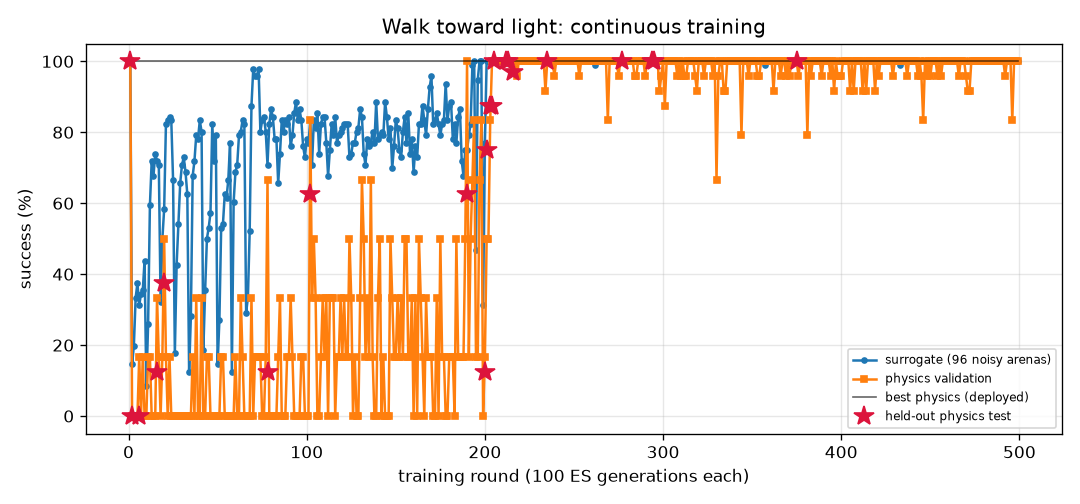
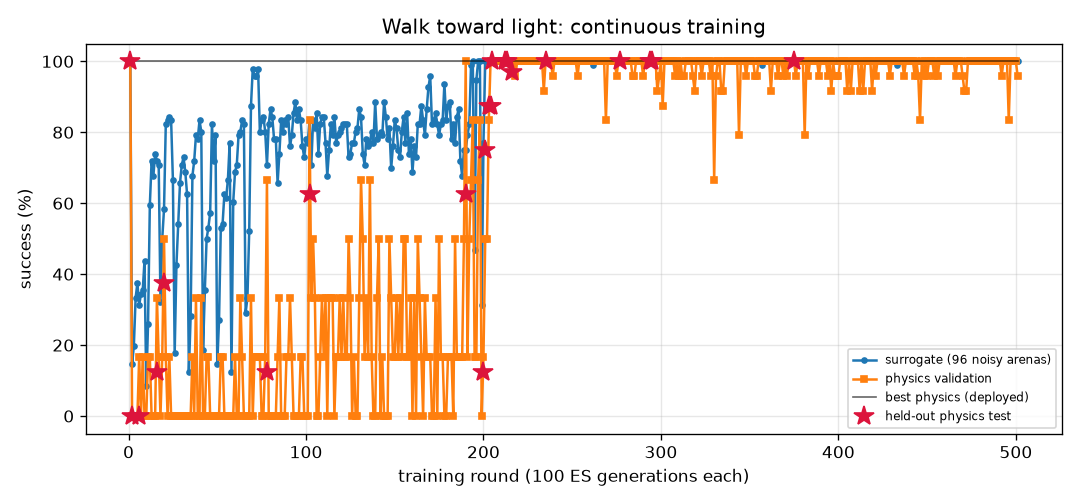
FlyLab: continuous training progress
- walk_forward: optimal, physics val 100% of 24, round 388
- turn: optimal, physics val 100% of 24, round 1054
- goto: optimal, physics val 100% of 24, round 297
- odor_seek: optimal, physics val 100% of 24, round 240
- odor_avoid: optimal, physics val 100% of 24, round 928
- light_seek: optimal, physics val 100% of 24, round 501
- light_avoid: optimal, physics val 100% of 24, round 652

diff --git a/projects/09_flylab/training/walk_forward/REPORT.md b/projects/09_flylab/training/walk_forward/REPORT.md
@@ -1,14 +1,14 @@
 # Walk forward (`walk_forward`) — training report
 
-*Auto-generated by `train_brains.py`, last updated 2026-11-15T13:48:36.*
+*Auto-generated by `train_brains.py`, last updated 2026-11-15T14:35:04.*
 
 ![curve](curve.png)
 
 | | |
 |---|---|
-| rounds | 385 |
-| ES generations | 38500 |
-| physics runs | 9254 |
+| rounds | 388 |
+| ES generations | 38800 |
+| physics runs | 9326 |
 | status | **optimal** |
 | best brain | round 116: physics validation **100%** on 24 arenas, surrogate 100% |
 | held-out physics test | **100%** on 32 unseen arenas (95% CI 89%-100%) (errors: [0.13, 0.16, 0.19, 0.16, 0.15, 0.2, 0.17, 0.18, 0.17, 0.19, 0.2, 0.14, 0.17, 0.19, 0.2, 0.2, 0.13, 0.19, 0.16, 0.2, 0.2, 0.16, 0.17, 0.2, 0.13, 0.15, 0.18, 0.14, 0.16, 0.15, 0.19, 0.12]) |
@@ -17,9 +17,6 @@ Physics error per arena: mm from target at the end (< 1.5 and standing still = s
 
 | round | level | gens | sigma | surrogate | physics val | val errors | test | note |
 |---:|---:|---:|---:|---:|---:|---|---:|---|
-| 346 | 3 | 34600 | 0.025 | 100% | 100% | [0.03, 0.17, 0.08, 0.1, 0.22, 0.06, 0.22, 0.05, 0.21, 0.25, 0.16, 0.27, 0.07, 0.1, 0.14, 0.27, 0.1, 0.16, 0.06, 0.17, 0.08, 0.27, 0.25, 0.21] |  |  |
-| 347 | 3 | 34700 | 0.024 | 100% | 100% | [0.43, 0.41, 0.32, 0.42, 0.42, 0.31, 0.4, 0.36, 0.41, 0.36, 0.3, 0.34, 0.36, 0.31, 0.42, 0.35, 0.41, 0.42, 0.36, 0.43, 0.39, 0.36, 0.33, 0.36] |  |  |
-| 348 | 3 | 34800 | 0.024 | 100% | 100% | [0.23, 0.3, 0.21, 0.23, 0.3, 0.21, 0.3, 0.2, 0.3, 0.3, 0.23, 0.27, 0.19, 0.21, 0.25, 0.28, 0.21, 0.3, 0.19, 0.27, 0.19, 0.29, 0.26, 0.19] |  | restart from best |
 | 349 | 3 | 34900 | 0.024 | 100% | 92% | [0.18, 0.12, 0.08, 0.18, 0.14, 0.06, 0.12, 0.16, 0.12, 0.15, 0.06, 0.17, 0.03, 0.06, 0.05, 0.09, 0.19, 0.08, 0.19, 0.05, 0.16, 0.15, 0.13, 0.06] |  |  |
 | 350 | 3 | 35000 | 0.024 | 100% | 96% | [0.1, 0.17, 0.36, 0.1, 0.17, 0.38, 0.18, 0.04, 0.17, 0.19, 0.05, 0.19, 0.06, 0.53, 0.12, 0.2, 0.03, 0.15, 0.06, 0.13, 0.29, 0.19, 0.19, 0.05] |  |  |
 | 351 | 3 | 35100 | 0.024 | 100% | 96% | [0.07, 0.24, 0.24, 0.06, 0.24, 0.05, 0.25, 0.04, 0.24, 0.27, 0.14, 0.27, 0.1, 0.13, 0.05, 0.26, 0.1, 0.23, 0.08, 0.11, 0.09, 0.27, 0.17, 0.1] |  |  |
@@ -57,3 +54,6 @@ Physics error per arena: mm from target at the end (< 1.5 and standing still = s
 | 383 | 3 | 38300 | 0.024 | 100% | 100% | [0.23, 0.23, 0.2, 0.23, 0.22, 0.19, 0.23, 0.21, 0.22, 0.21, 0.18, 0.2, 0.21, 0.2, 0.22, 0.21, 0.22, 0.23, 0.22, 0.23, 0.22, 0.21, 0.2, 0.21] |  |  |
 | 384 | 3 | 38400 | 0.024 | 100% | 100% | [0.21, 0.06, 0.17, 0.22, 0.05, 0.02, 0.15, 0.2, 0.08, 0.16, 0.33, 0.16, 0.2, 0.02, 0.09, 0.18, 0.22, 0.07, 0.2, 0.1, 0.21, 0.16, 0.15, 0.2] |  | restart from best |
 | 385 | 3 | 38500 | 0.024 | 100% | 100% | [0.23, 0.33, 0.19, 0.23, 0.33, 0.2, 0.33, 0.18, 0.33, 0.33, 0.21, 0.31, 0.18, 0.2, 0.25, 0.32, 0.21, 0.3, 0.18, 0.27, 0.18, 0.33, 0.31, 0.18] |  |  |
+| 386 | 3 | 38600 | 0.024 | 100% | 100% | [0.11, 0.2, 0.12, 0.11, 0.2, 0.14, 0.21, 0.12, 0.2, 0.25, 0.15, 0.25, 0.12, 0.14, 0.12, 0.25, 0.11, 0.17, 0.12, 0.14, 0.11, 0.26, 0.25, 0.11] |  |  |
+| 387 | 3 | 38700 | 0.024 | 100% | 92% | [0.07, 0.1, 0.05, 0.06, 0.09, 0.06, 0.5, 0.05, 0.09, 0.06, 0.05, 0.08, 0.05, 0.06, 0.06, 0.06, 3.55, 0.07, 0.06, 0.07, 0.06, 0.07, 0.07, 0.05] |  |  |
+| 388 | 3 | 38800 | 0.024 | 100% | 96% | [0.21, 0.19, 0.16, 0.06, 0.18, 0.18, 0.21, 0.16, 0.2, 0.26, 0.17, 0.25, 0.16, 0.17, 0.1, 0.26, 0.02, 0.14, 0.15, 0.1, 0.14, 0.27, 0.25, 0.17] |  | restart from best |

diff --git a/projects/09_flylab/training/light_seek/REPORT.md b/projects/09_flylab/training/light_seek/REPORT.md
@@ -1,14 +1,14 @@
 # Walk toward light (`light_seek`) — training report
 
-*Auto-generated by `train_brains.py`, last updated 2026-11-15T13:50:26.*
+*Auto-generated by `train_brains.py`, last updated 2026-11-15T14:34:08.*
 
 ![curve](curve.png)
 
 | | |
 |---|---|
-| rounds | 499 |
-| ES generations | 49900 |
-| physics runs | 8856 |
+| rounds | 501 |
+| ES generations | 50100 |
+| physics runs | 8904 |
 | status | **optimal** |
 | best brain | round 375: physics validation **100%** on 24 arenas, surrogate 100% |
 | held-out physics test | **100%** on 32 unseen arenas (95% CI 89%-100%) (errors: [0.57, 0.54, 0.53, 0.57, 0.55, 0.56, 0.59, 0.56, 0.53, 0.56, 0.71, 0.56, 0.55, 0.54, 0.53, 0.54, 0.54, 0.55, 0.52, 0.65, 0.64, 0.7, 0.58, 0.57, 0.6, 0.62, 0.55, 0.88, 0.54, 0.52, 0.62, 0.57]) |
@@ -17,8 +17,6 @@ Physics error per arena: mm from target at the end (< 1.5 and standing still = s
 
 | round | level | gens | sigma | surrogate | physics val | val errors | test | note |
 |---:|---:|---:|---:|---:|---:|---|---:|---|
-| 460 | 3 | 46000 | 0.024 | 100% | 100% | [0.47, 0.46, 0.51, 0.5, 0.47, 0.57, 0.53, 0.51, 0.49, 0.51, 0.48, 0.55, 0.58, 0.51, 0.49, 0.55, 0.47, 0.51, 0.52, 0.59, 0.49, 0.47, 0.48, 0.48] |  |  |
-| 461 | 3 | 46100 | 0.024 | 100% | 100% | [0.57, 0.57, 0.56, 0.56, 0.65, 0.65, 0.56, 0.61, 0.6, 0.58, 0.6, 0.59, 0.56, 0.6, 0.57, 0.56, 0.57, 0.56, 0.58, 0.58, 0.57, 0.65, 0.57, 0.61] |  |  |
 | 462 | 3 | 46200 | 0.024 | 100% | 100% | [0.51, 0.53, 0.52, 0.53, 0.5, 0.52, 0.51, 0.52, 1.11, 0.5, 0.51, 0.52, 0.51, 0.51, 0.53, 0.51, 0.51, 0.5, 0.52, 0.53, 0.52, 0.51, 0.51, 0.54] |  |  |
 | 463 | 3 | 46300 | 0.024 | 100% | 100% | [0.53, 0.61, 0.54, 0.57, 0.59, 0.55, 0.49, 0.49, 0.57, 0.49, 0.6, 0.54, 0.94, 0.53, 0.95, 0.81, 0.52, 0.51, 0.57, 0.54, 0.5, 1.03, 0.56, 0.6] |  | restart from best |
 | 464 | 3 | 46400 | 0.024 | 100% | 100% | [0.68, 0.56, 0.64, 0.57, 0.58, 0.54, 0.66, 0.62, 0.71, 0.58, 0.59, 0.59, 0.62, 0.99, 0.71, 0.58, 0.72, 0.58, 0.55, 0.71, 0.62, 0.68, 0.57, 0.58] |  |  |
@@ -57,3 +55,5 @@ Physics error per arena: mm from target at the end (< 1.5 and standing still = s
 | 497 | 3 | 49700 | 0.024 | 100% | 100% | [0.59, 0.61, 0.64, 0.71, 0.57, 0.6, 0.61, 0.7, 0.84, 0.64, 0.57, 0.6, 0.68, 0.61, 0.78, 0.65, 0.59, 0.72, 0.67, 0.58, 0.64, 0.6, 0.59, 0.63] |  |  |
 | 498 | 3 | 49800 | 0.024 | 100% | 100% | [0.57, 0.55, 0.57, 1.36, 0.57, 0.57, 0.63, 0.54, 0.57, 0.67, 0.55, 0.58, 0.57, 0.57, 0.56, 0.56, 0.57, 0.58, 0.56, 0.66, 0.57, 0.56, 0.62, 0.72] |  |  |
 | 499 | 3 | 49900 | 0.024 | 100% | 100% | [0.57, 0.55, 0.54, 0.57, 0.54, 0.73, 0.58, 0.68, 0.55, 0.51, 1.03, 0.62, 0.65, 0.63, 0.53, 0.72, 0.6, 0.69, 0.67, 0.76, 0.57, 0.69, 0.99, 0.54] |  | restart from best |
+| 500 | 3 | 50000 | 0.024 | 100% | 100% | [0.89, 0.56, 0.55, 0.72, 0.51, 0.54, 0.55, 0.55, 0.68, 1.08, 0.58, 0.58, 0.5, 0.59, 0.85, 0.52, 0.54, 0.58, 0.59, 0.59, 0.64, 1.15, 0.59, 0.65] |  |  |
+| 501 | 3 | 50100 | 0.024 | 100% | 96% | [0.49, 0.45, 0.47, 0.46, 0.42, 0.45, 0.48, 0.43, 0.43, 0.51, 0.53, 0.44, 0.43, 0.59, 0.51, 0.45, 0.46, 0.51, 0.45, 0.44, 1.01, 0.44, 0.48, 1.11] |  |  |

diff --git a/projects/09_flylab/training/TRAINING.md b/projects/09_flylab/training/TRAINING.md
@@ -1,15 +1,15 @@
 # FlyLab brains — continuous training log
 
-*Auto-generated by `train_brains.py`, last updated 2026-11-15T13:50:26.*
+*Auto-generated by `train_brains.py`, last updated 2026-11-15T14:35:04.*
 
 Every skill has its own brain and its own training process: surrogate ES rounds, physics validation in MuJoCo, keep-the-best selection, and a held-out physics test that is never used for selection. See each skill's report for its full round-by-round history. Mastery is progressive: passing a level (100% physics validation, >=95% surrogate) doubles the validation and test arena sets; a brain is **optimal** once it holds up at level 3 (>=95% of 24 validation arenas) AND scores >=90% on the 32 held-out test arenas. Test columns show 95% Wilson confidence intervals.
 
 | skill | rounds | ES generations | physics runs | surrogate | physics val | **physics test** | status |
 |---|---:|---:|---:|---:|---:|---:|---|
-| [Walk forward](walk_forward/REPORT.md) | 385 | 38500 | 9254 | 100% | 100% of 24 | 100% of 32 (CI 89-100%) | **optimal** |
+| [Walk forward](walk_forward/REPORT.md) | 388 | 38800 | 9326 | 100% | 100% of 24 | 100% of 32 (CI 89-100%) | **optimal** |
 | [Turn in place](turn/REPORT.md) | 1054 | 105400 | 25542 | 100% | 100% of 24 | 97% of 32 (CI 84-99%) | **optimal** |
 | [Go to a location](goto/REPORT.md) | 297 | 29700 | 7078 | 100% | 100% of 24 | 100% of 32 (CI 89-100%) | **optimal** |
 | [Find food by smell](odor_seek/REPORT.md) | 240 | 24000 | 5254 | 100% | 100% of 24 | 100% of 32 (CI 89-100%) | **optimal** |
 | [Escape a bad smell](odor_avoid/REPORT.md) | 928 | 92800 | 19578 | 97% | 100% of 24 | 97% of 32 (CI 84-99%) | **optimal** |
-| [Walk toward light](light_seek/REPORT.md) | 499 | 49900 | 8856 | 100% | 100% of 24 | 100% of 32 (CI 89-100%) | **optimal** |
+| [Walk toward light](light_seek/REPORT.md) | 501 | 50100 | 8904 | 100% | 100% of 24 | 100% of 32 (CI 89-100%) | **optimal** |
 | [Hide from light](light_avoid/REPORT.md) | 652 | 65200 | 15920 | 100% | 100% of 24 | 100% of 32 (CI 89-100%) | **optimal** |
